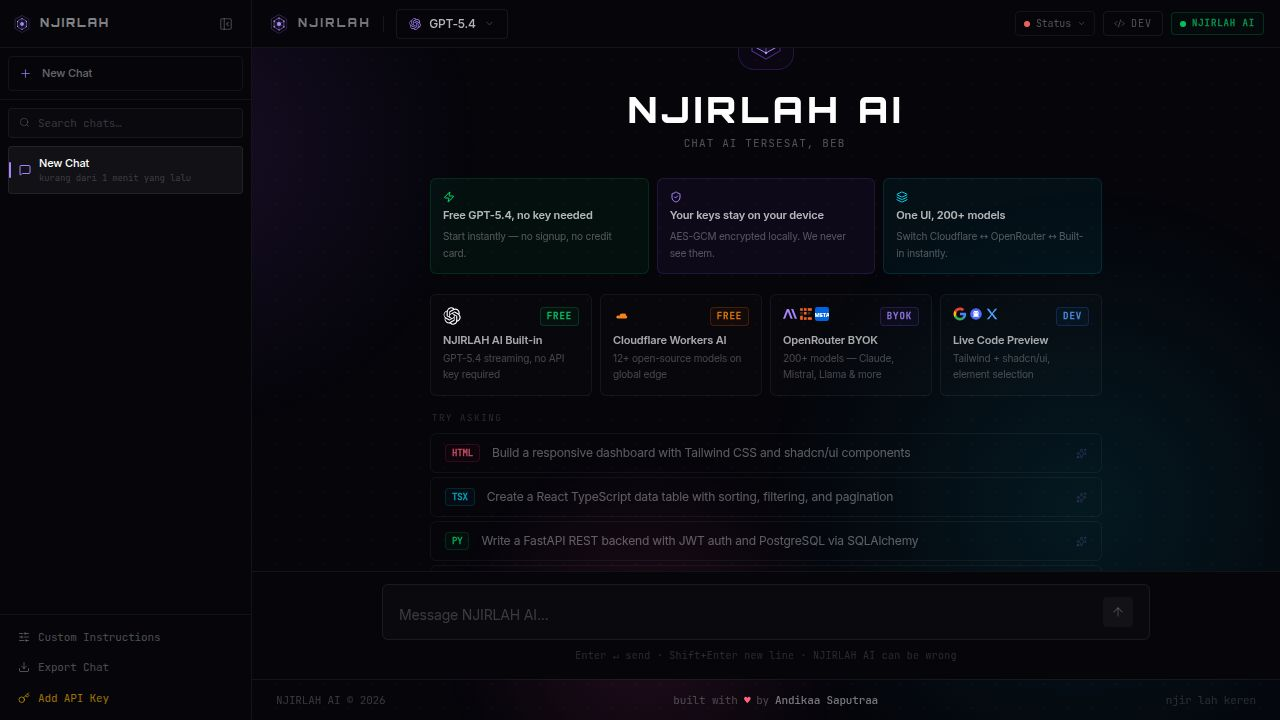
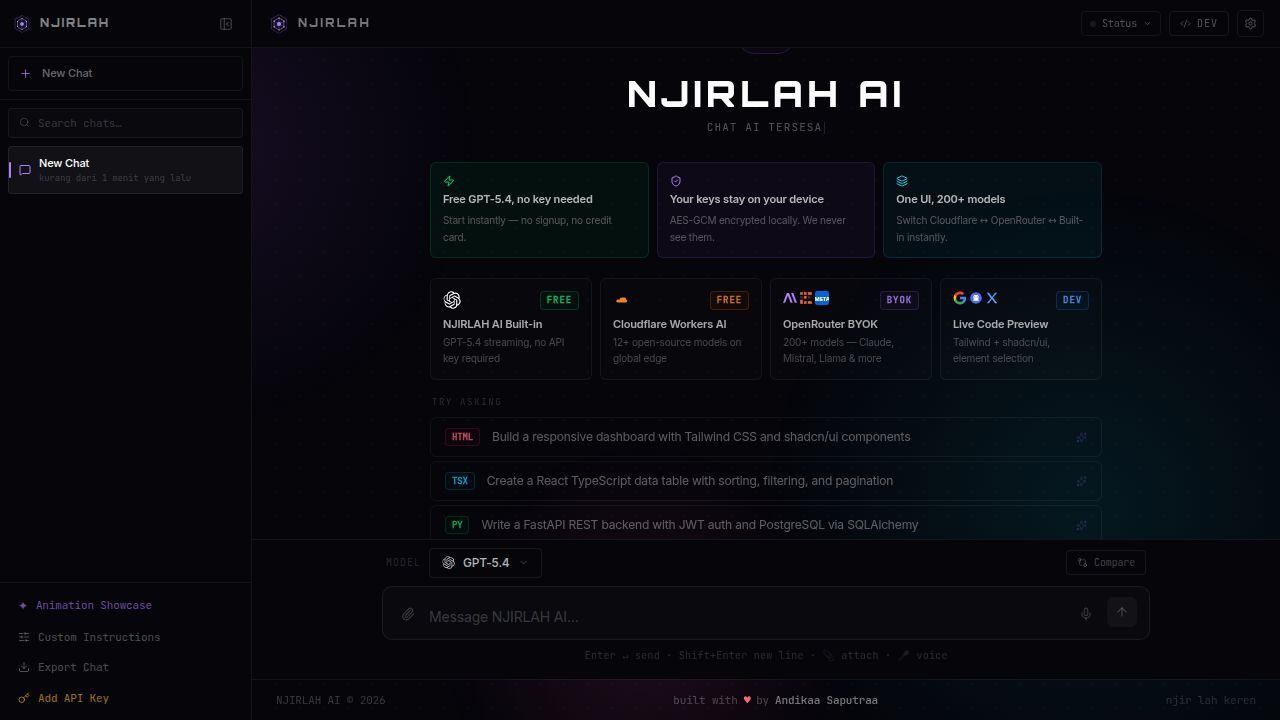
Add a comprehensive animation showcase to the AI chat application
Refactor animation components and update documentation to include a new animation showcase section, detailing various animation libraries and implementations.

Replit-Commit-Author: Agent
Replit-Commit-Session-Id: 2adfb3c6-f858-4846-bb23-10a2cecb5410
Replit-Commit-Checkpoint-Type: full_checkpoint
Replit-Commit-Event-Id: 5be0eac2-5825-4bab-af78-a94d7d86f70f
Replit-Commit-Screenshot-Url: https://storage.googleapis.com/screenshot-production-us-central1/f115c32b-f8e2-44c0-8c14-150aba86cd54/2adfb3c6-f858-4846-bb23-10a2cecb5410/CQWOZcV
Replit-Helium-Checkpoint-Created: true

diff --git a/artifacts/njirlah-ai/src/components/animations/CursorSection.tsx b/artifacts/njirlah-ai/src/components/animations/CursorSection.tsx
@@ -48,7 +48,6 @@ function FloatingTargetDemo() {
       >
         <p className="text-xs text-center pointer-events-none" style={{ color: "rgba(255,255,255,0.3)" }}>Move cursor here</p>
         <motion.div
-          style={{ x: sx, y: sy }}
           animate={{ scale: active ? 1 : 0.6, opacity: active ? 1 : 0.4 }}
           transition={{ duration: 0.2 }}
           className="absolute w-10 h-10 rounded-full pointer-events-none"

diff --git a/artifacts/njirlah-ai/src/components/animations/ScrollSection.tsx b/artifacts/njirlah-ai/src/components/animations/ScrollSection.tsx
@@ -141,7 +141,6 @@ function ScrollVelocity3DDemo() {
           {planes.map((p) => (
             <motion.div
               key={p.label}
-              style={{ translateZ: p.z }}
               className="px-8 py-2 rounded-lg text-xs font-bold text-center"
               style={{ background: `${p.color}20`, border: `1px solid ${p.color}50`, color: p.color, translateZ: p.z }}
             >

diff --git a/artifacts/njirlah-ai/src/components/animations/AdvancedSection.tsx b/artifacts/njirlah-ai/src/components/animations/AdvancedSection.tsx
@@ -44,7 +44,6 @@ function FollowPointerSpringDemo() {
         style={{ background: "rgba(0,0,0,0.3)", cursor: "none" }}
       >
         <motion.div
-          style={{ x, y }}
           className="absolute w-6 h-6 rounded-full pointer-events-none"
           style={{ background: "#9E9EFF", x, y, boxShadow: "0 0 12px #9E9EFF" }}
         />

diff --git a/replit.md b/replit.md
@@ -1,57 +1,63 @@
 # NJIRLAH AI
 
-A beautiful dark-themed AI chat interface supporting multiple providers (built-in GPT-5.4, Cloudflare Workers AI, OpenRouter BYOK) with streaming responses, compare mode, live code preview, and local API key encryption.
+An AI chat application with an extensive animation showcase featuring 50+ live interactive animation demos.
 
 ## Run & Operate
 
-- Frontend: `pnpm --filter @workspace/njirlah-ai run dev`
-- API Server: `pnpm --filter @workspace/api-server run dev`
-- Install: `pnpm install`
-- Typecheck: `pnpm run typecheck`
-
-Required env vars:
-- `AI_INTEGRATIONS_OPENAI_BASE_URL` — Replit AI proxy base URL (auto-provisioned)
-- `AI_INTEGRATIONS_OPENAI_API_KEY` — Replit AI proxy key (auto-provisioned)
-- `CLOUDFLARE_ACCOUNT_ID` — (optional) Cloudflare account ID for Workers AI
-- `CLOUDFLARE_API_TOKEN` — (optional) Cloudflare API token for Workers AI
+```bash
+# Start the app
+pnpm --filter @workspace/njirlah-ai run dev
+# (PORT=22978 BASE_PATH=/ are set automatically by the artifact workflow)
+```
 
 ## Stack
 
-- Frontend: React 19 + Vite 7 + TypeScript + Tailwind CSS v4 + wouter (routing)
-- UI: shadcn/ui + Radix primitives + framer-motion
-- State: Zustand (persisted) + TanStack Query
-- API Server: Express 5 + pino logging + esbuild
-- AI: OpenAI SDK via Replit AI Integrations proxy; OpenRouter and Cloudflare via fetch proxy
+- React 18 + Vite 7
+- Framer Motion (primary animation orchestrator)
+- Tailwind CSS v4 + tw-animate-css
+- Zustand (state management)
+- Radix UI primitives
+- react-markdown + react-syntax-highlighter (chat rendering)
+- TanStack Query
 
 ## Where things live
 
-- `artifacts/njirlah-ai/` — frontend React app
-- `artifacts/njirlah-ai/src/store/` — Zustand stores (chat, compare, api-key, appearance)
-- `artifacts/njirlah-ai/src/hooks/` — useChat, useCompareChat hooks
+- `artifacts/njirlah-ai/src/` — main source
+- `artifacts/njirlah-ai/src/App.tsx` — app entry; routes to AnimationsPage on `/animations`
+- `artifacts/njirlah-ai/src/pages/AnimationsPage.tsx` — animation showcase page
+- `artifacts/njirlah-ai/src/components/animations/` — 8 animation section components
 - `artifacts/njirlah-ai/src/components/chat/` — chat UI components
-- `artifacts/api-server/src/routes/` — Express API routes (chat.ts, status.ts, cloudflare.ts)
-- `lib/integrations-openai-ai-server/` — OpenAI SDK client wrapper
+- `artifacts/njirlah-ai/src/components/layout/` — sidebar, header, background
+- `artifacts/njirlah-ai/src/store/` — Zustand stores (chat, api-key, compare)
 
 ## Architecture decisions
 
-- All provider proxying done server-side (api-server) to avoid CORS and protect keys
-- OpenRouter API key is user-supplied (BYOK), passed via `x-api-key` header, never stored server-side
-- API keys stored in browser using AES-GCM encryption (`lib/encryption.ts`)
-- Cloudflare Workers AI falls back to a built-in model list if credentials aren't configured
-- `/api/status` pings all three providers and returns latency for the status badge
+- Animation showcase is a separate `/animations` route within the same SPA (no page reload)
+- All animations use Framer Motion as the primary orchestrator — GSAP/react-spring patterns are replicated using Framer Motion's spring physics for bundle efficiency
+- Dark-only design with neon accent palette (#9E9EFF purple, #8DF0CC mint)
+- Chat uses streaming token display with live tok/s counter
+- API calls go through a Vite proxy to localhost:8080 (api-server)
 
 ## Product
 
-- Multi-provider AI chat: NJIRLAH built-in (GPT-5.4, free), Cloudflare Workers AI (free), OpenRouter (BYOK)
-- Streaming SSE responses with markdown + syntax highlighting
-- Compare mode: side-by-side model comparison
-- Live Code Preview panel for HTML/TSX output
-- Custom instructions, export chat, appearance settings
-- API key management with local AES-GCM encryption
-- **Animation Showcase** (`/animations`) — 50+ live animation demos organized in 8 categories: Basic, Loaders, Text & Path, Interactive, Scroll, Cursor, iOS, Advanced. All powered by Framer Motion 12. Accessible via sidebar "Animation Showcase" link.
+- Full AI chat interface with model selector, custom instructions, API key management
+- Animation showcase: 50+ demos across 8 categories (Basic, Loaders, Text/Path, Interactive, Scroll, Cursor, iOS, Advanced)
+- Side-by-side model compare view
+- Dev panel for inspecting request/response metadata
+
+## User preferences
+
+- Animations must feel premium, smooth, and 60fps
+- Framer Motion is primary library; GSAP patterns emulated within it
+- Dark neon aesthetic (#05050A background, purple/mint accents)
 
 ## Gotchas
 
-- The vite config requires `PORT` and `BASE_PATH` env vars — set by the workflow automatically
-- The api-server workflow rebuilds on each start (esbuild) — takes ~300ms
-- Do NOT run `pnpm dev` at workspace root — no dev script there
+- PORT and BASE_PATH env vars required by vite.config.ts — set by artifact workflow automatically
+- The `@workspace/api-client-react` dep is a workspace package (codegen output) — must run codegen if OpenAPI spec changes
+- Duplicate `style` props on motion elements cause Vite warnings — always merge into one style object
+
+## Pointers
+
+- `.local/skills/react-vite/SKILL.md` — frontend build conventions
+- `.local/skills/design/SKILL.md` — design subagent delegation
